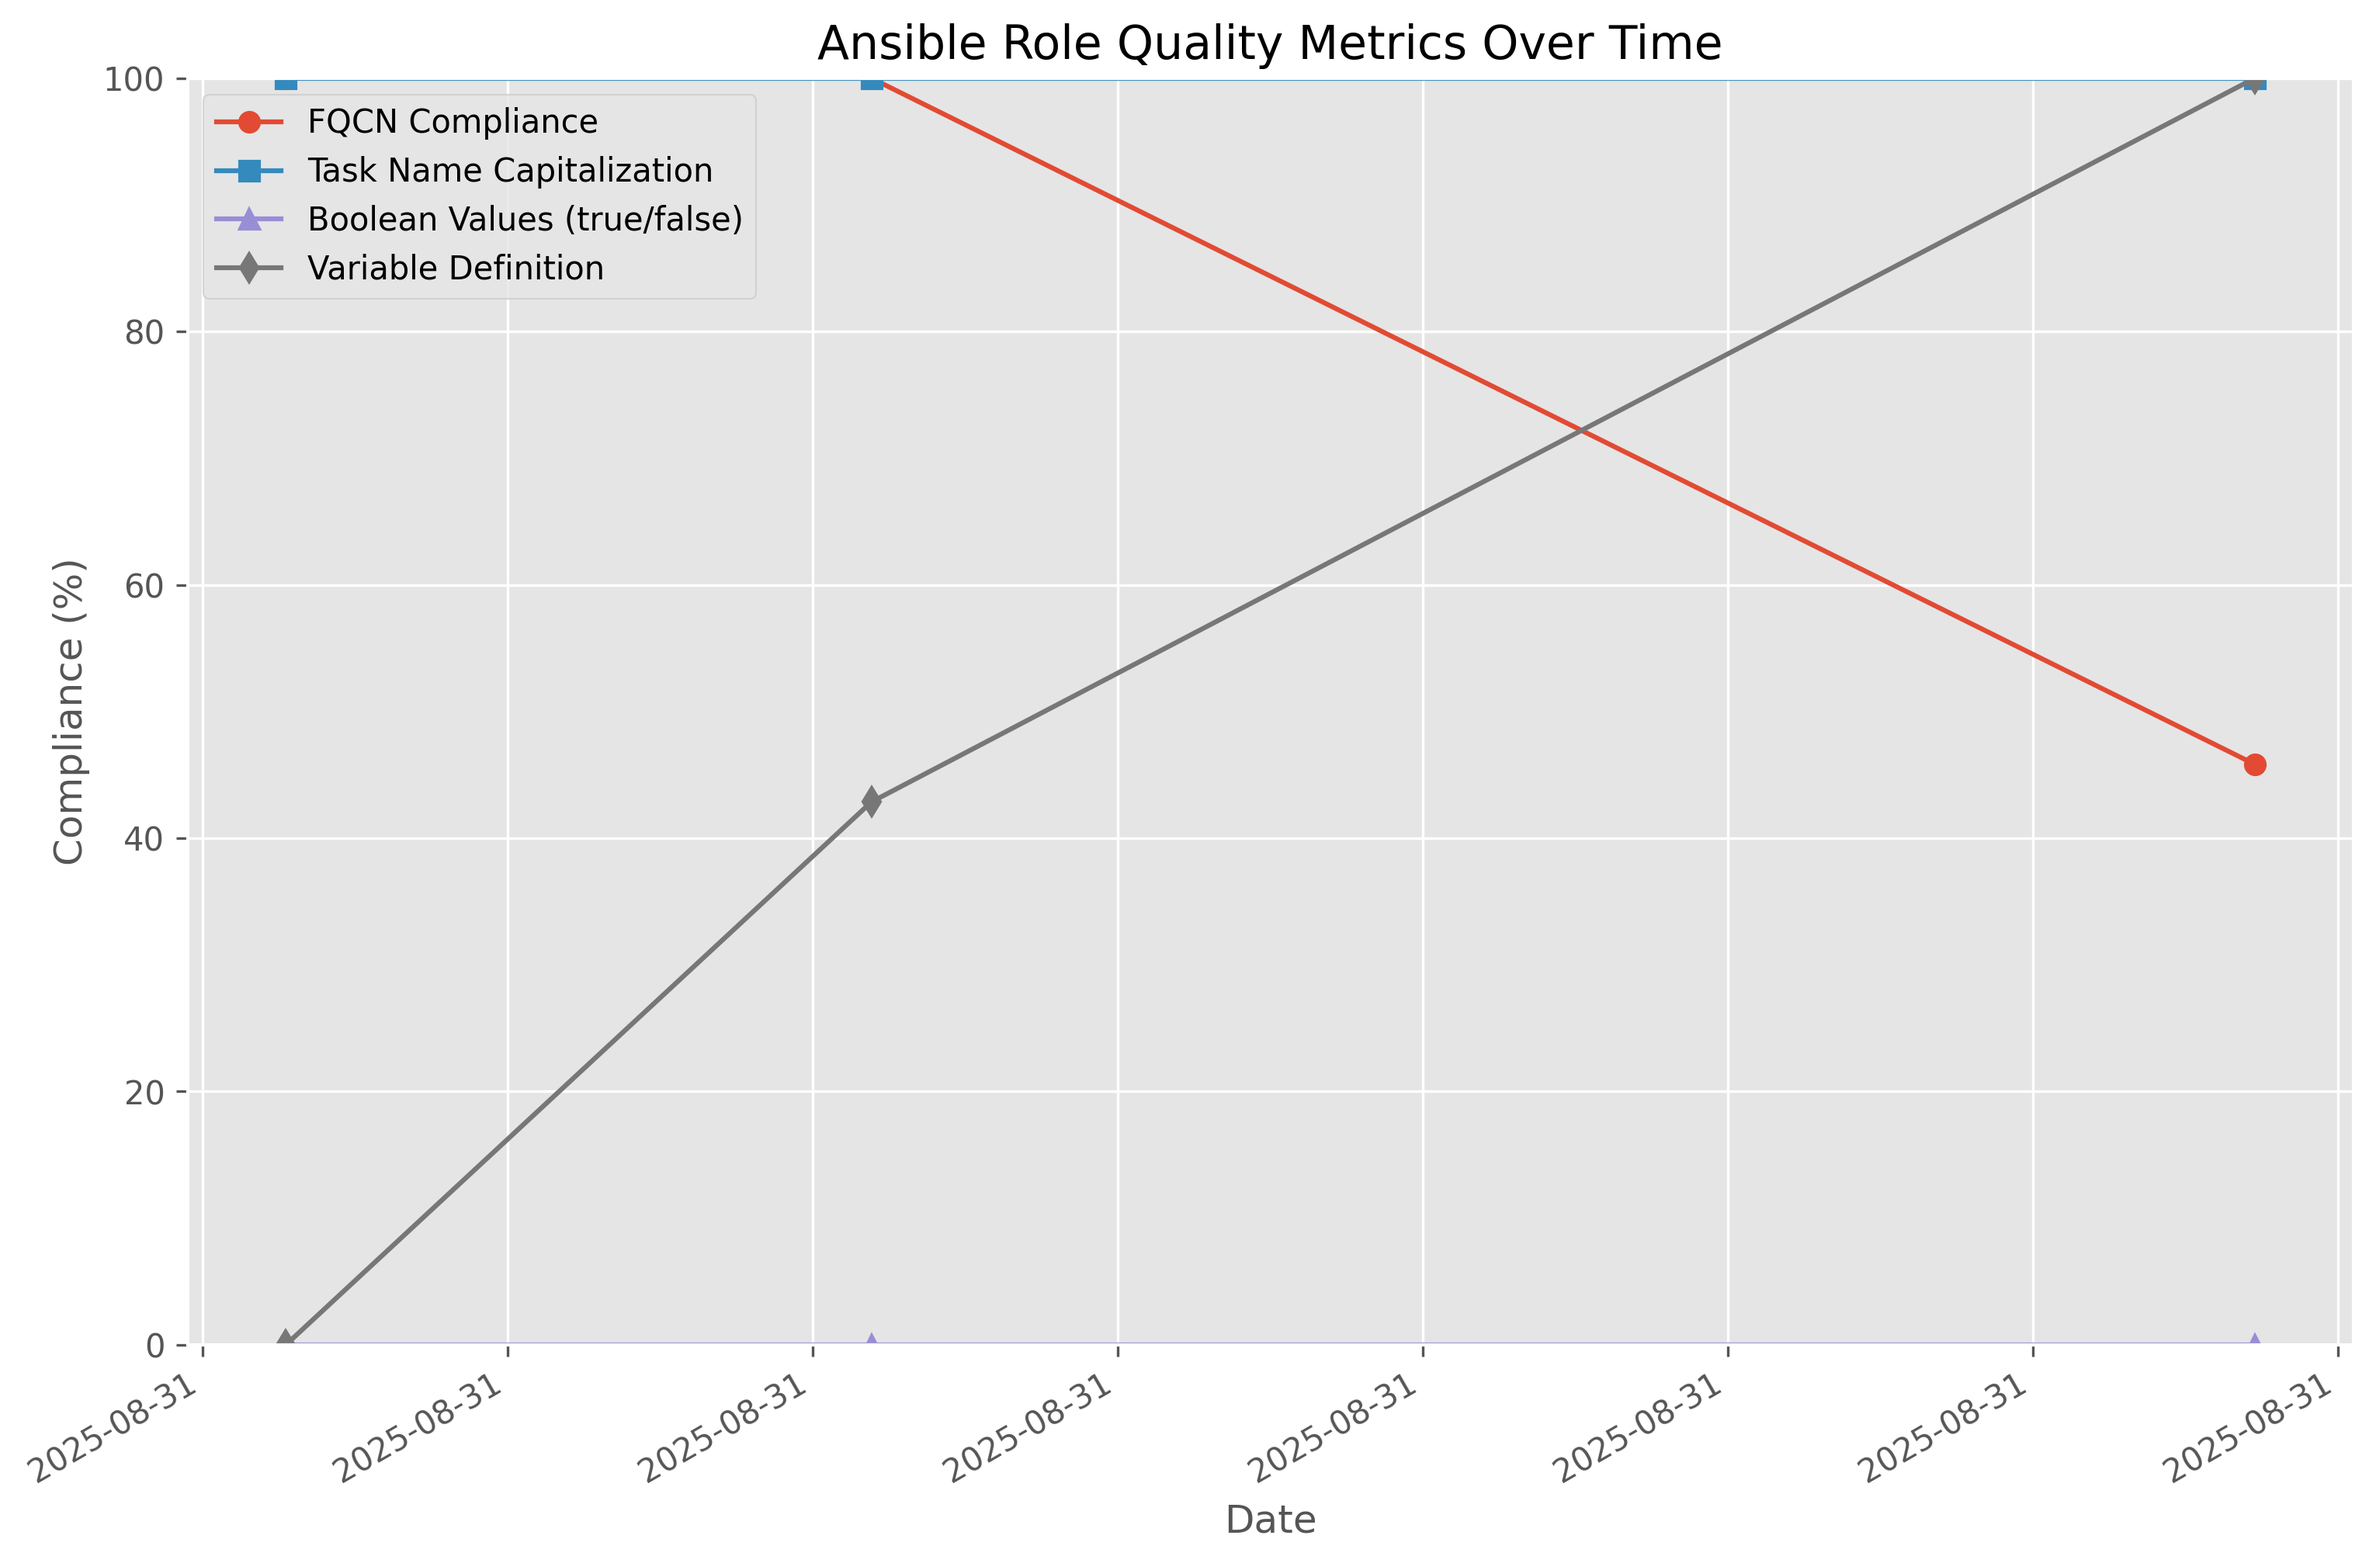
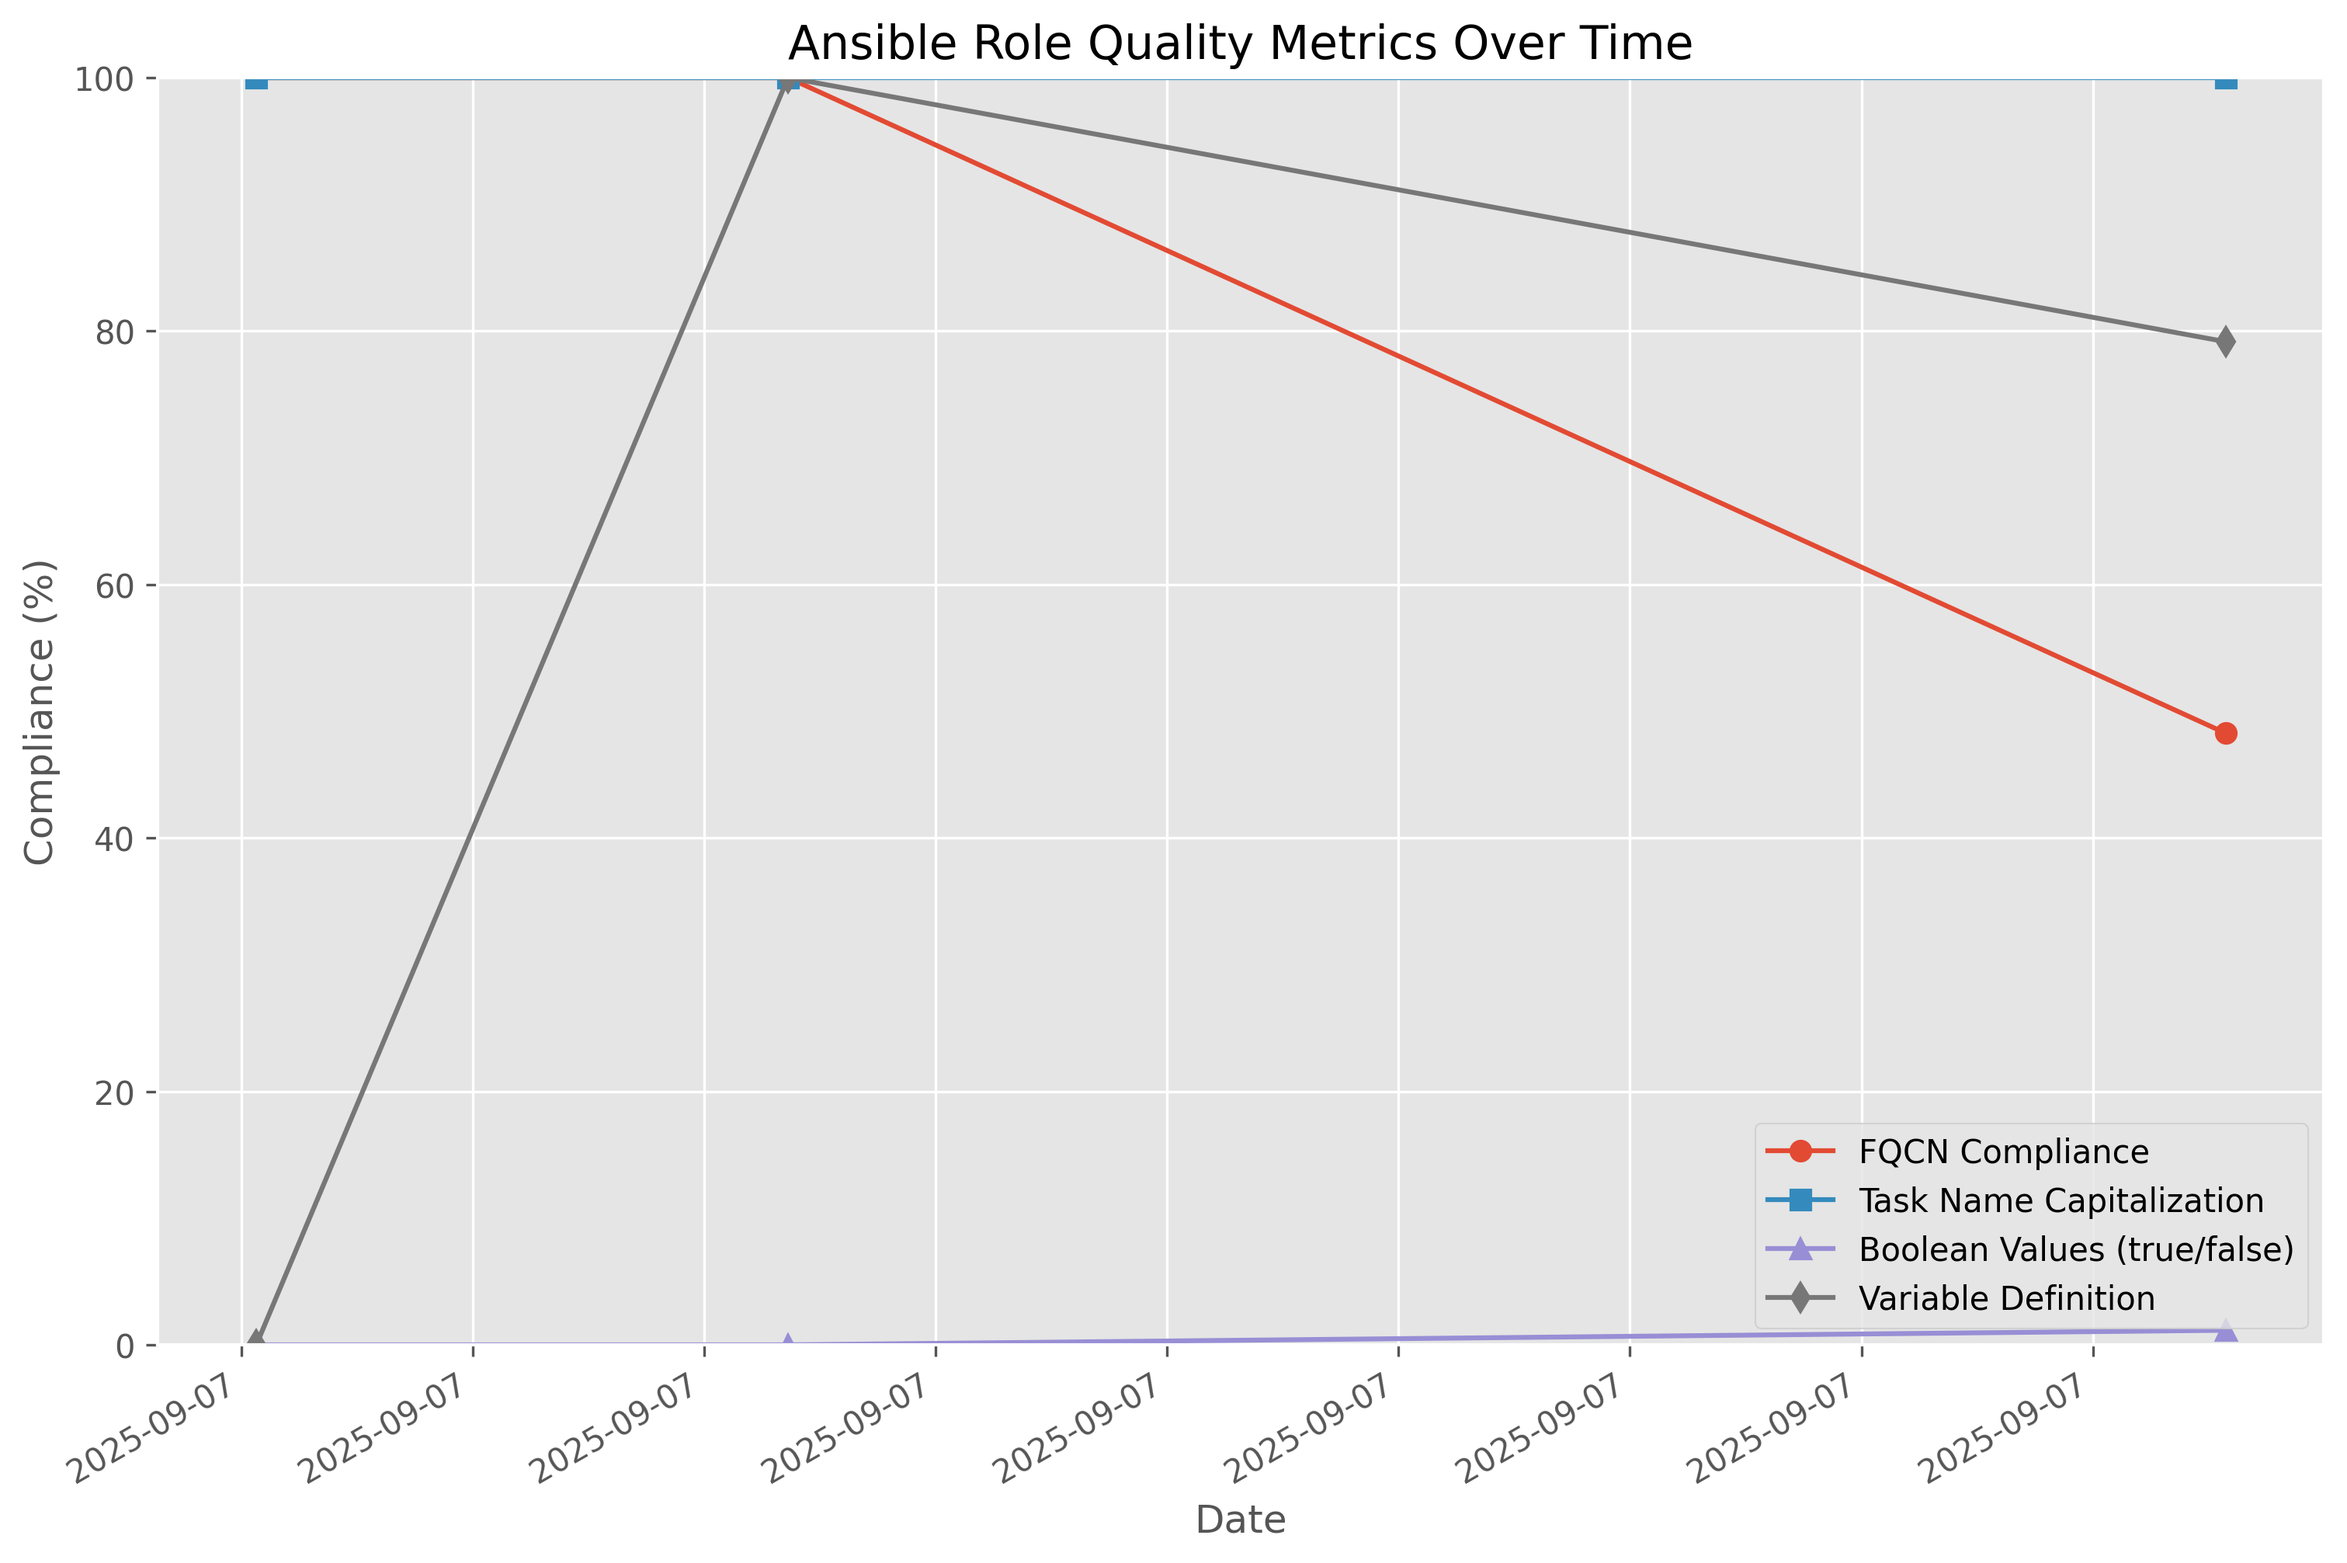
Update metrics (automated) 86381e575e3cb567ae7d61f2b827ec3665fe9a28

diff --git a/metrics/metrics_summary.md b/metrics/metrics_summary.md
@@ -1,15 +1,15 @@
 # Chef to Ansible Conversion Metrics
 
-Last updated: 2025-08-31 00:27:54
+Last updated: 2025-09-07 01:32:51
 
 ## Latest Compliance Metrics
 
 | Metric | Value |
 |--------|-------|
-| FQCN Compliance (%) | 45.83% |
+| FQCN Compliance (%) | 48.28% |
 | Task Name Capitalization (%) | 100.00% |
-| Boolean Values (true/false) (%) | 0.00% |
-| Variable Definition (%) | 100.00% |
+| Boolean Values (true/false) (%) | 1.15% |
+| Variable Definition (%) | 79.17% |
 
 ## Compliance Metrics Over Time
 
